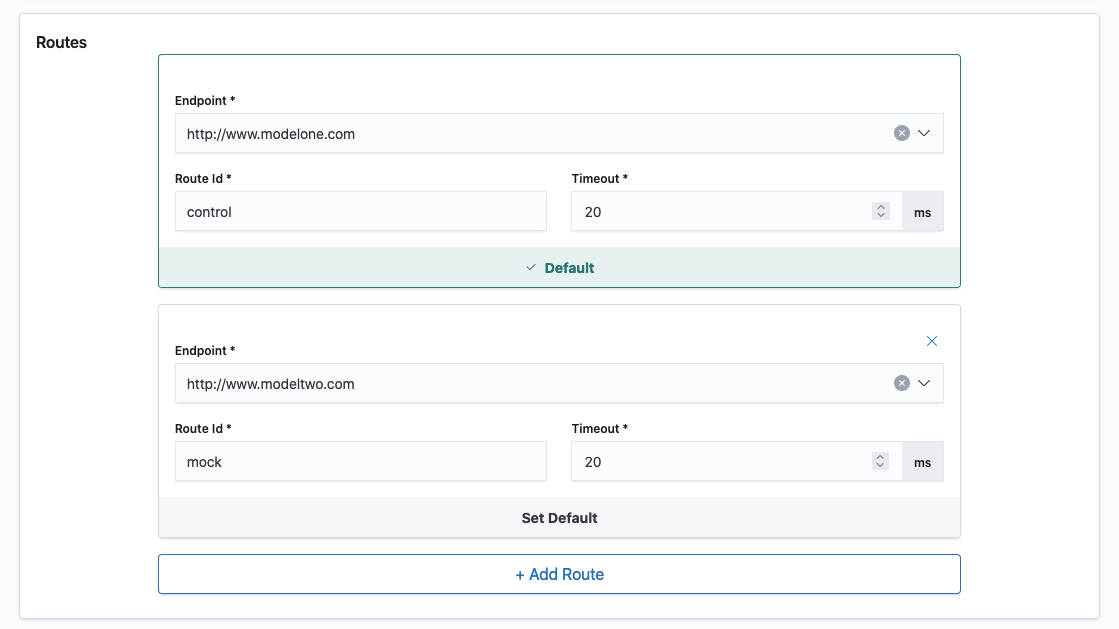
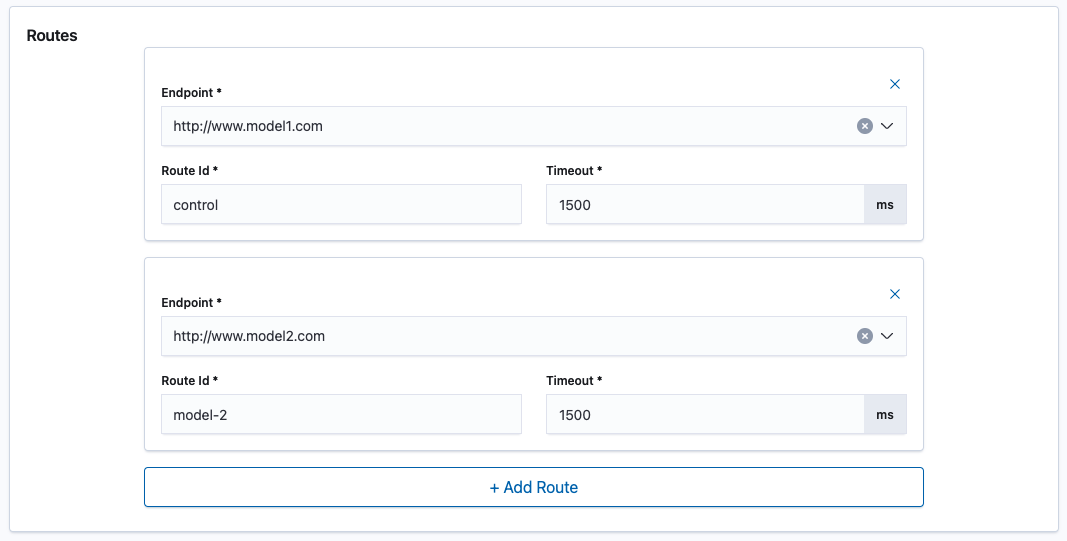
Update user docs

diff --git a/docs/how-to/create-a-router/configure-ensembler.md b/docs/how-to/create-a-router/configure-ensembler.md
@@ -1,9 +1,5 @@
 # Configure Ensembler
 
-{% hint style="info" %}
-This step is **optional** and the default behaviour will be to return the response from the default route.
-{% endhint %}
-
 Turing currently supports ensemblers in the same fashion as the enrichers. The ensembling is controlled by the policy from the rule engine.
 
 Currently, there are 4 options available - no ensembler, a standard ensembler, Docker and an external ensembler.
@@ -13,6 +9,10 @@ The router will return a response from the route configured to act as the final 
 
 ![](../../.gitbook/assets/nop_ensembler_config.png)
 
+{% hint style="info" %}
+It is not possible to select as the final response a route that has traffic rules associated to it.
+{% endhint %}
+
 ## Standard Ensembler
 
 For experiment engines configured to work with standard ensemblers (i.e., Standard Experiment Engines with experiment selection enabled), the router will return a response from one of the routes based on the configured mapping between routes and experiment treatments. At run time, the treatment returned by the engine will be used to select the corresponding route’s response.
@@ -20,6 +20,10 @@ For experiment engines configured to work with standard ensemblers (i.e., Standa
 In addition, a fallback route may be configured whose results will be used at runtime when the call to the experiment engine fails or if a route mapping for the treatment generated by the experiment engine does not exist.
 
 ![](../../.gitbook/assets/standard_ensembler_config.png)
+
+{% hint style="info" %}
+It is not possible to select as the fallback response a route that has traffic rules associated to it.
+{% endhint %}
 
 ## Docker
 Turing will deploy specified image as a post-processor and will send the original request, responses from all routes, and the treatment configuration (if a Experiment Engine is selected, in Configure Experiment Engine), for ensembling. To configure a Docker ensembler, there are 3 sections to be filled.
@@ -95,8 +99,7 @@ When the ensembler type is Docker/External, the ensembler will receive the follo
         "route": "control",
         "data": {
           //...
-        },
-        "is_default": true
+        }
       },
       {
         "route": "xgboost-ordinal",

diff --git a/docs/how-to/create-a-router/configure-routes.md b/docs/how-to/create-a-router/configure-routes.md
@@ -4,15 +4,6 @@ Routes are an essential part of your Turing Router setup. Each route is defined 
 
 ![](../../.gitbook/assets/routes_panel.png)
 
-It is also required to specify, which route is the default route. Each router has exactly one default route and zero or more non-default routes. Depending on the configuration of Experiment Engine and Ensembler, Turing might use a response from the default route as a final response that would be sent to the calling upstream system:
-
-| Experiment Engine | Ensembler    | Final Router Response |
-| ---               | ---          | ---                   |
-| Disabled          | No Ensembler | Default route response |
-| Disabled          | Custom       | Ensembler response |
-| Enabled           | Standard     | Default route response, when preferred route response cannot be obtained |
-| Enabled           | Custom       | Ensembler response |
-
 {% hint style="info" %}
 You should also configure timeouts for each of the routes. The request execution will be terminated, when this timeout is exceeded during a call from Turing to the route's endpoint.
 {% endhint %}

diff --git a/docs/how-to/create-a-router/configure-traffic-rules.md b/docs/how-to/create-a-router/configure-traffic-rules.md
@@ -28,7 +28,7 @@ Provided values are case-sensitive.
 
 ### Routes   
 
-You should also select one or more routes from the drop-down list that would be activated if the rule is triggered. The default route cannot be selected in any of traffic rules. As for non-default routes, they could be attached to zero or more traffic rules.
+You should also select one or more routes from the drop-down list that would be activated if the rule is triggered. A route can be attached to zero or more traffic rules.
 
 * If a route is attached to some traffic rule, then Turing will only send request to this route if the request meets this rule's conditions.
 * If a route is not attached to any of the traffic rules, then Turing will call this route with every incoming request.
